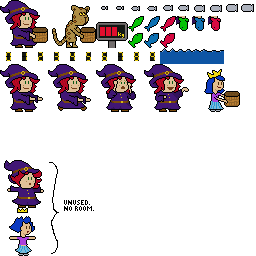
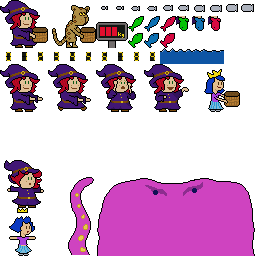
sea monster

diff --git a/src/game/battle/battle_seamonster.c b/src/game/battle/battle_seamonster.c
@@ -1,0 +1,169 @@
+/* battle_seamonster.c
+ * Not a real battle; just a cutscene showing Dot getting eaten by the sea monster.
+ */
+
+#include "game/bellacopia.h"
+
+#define GROUNDY 160 /* >16 off the framebuffer's bottom. */
+#define SKY_COLOR 0x5e9fc7ff
+#define GROUND_COLOR 0x126e29ff
+#define TENTACLE_COUNT 5
+#define MONSTER_SPEED 60.0 /* px/s. */
+#define MONSTER_Y_TOP 100 /* >=FBH-80 */
+#define MONSTER_Y_BOTTOM 250
+
+struct battle_seamonster {
+  struct battle hdr;
+  double wanimclock;
+  int wanimframe;
+  
+  int dot_eaten;
+  double monstery;
+  double monsterdy;
+  struct tentacle {
+    int x;
+    double animclock;
+    int animframe;
+  } tentaclev[TENTACLE_COUNT];
+};
+
+#define BATTLE ((struct battle_seamonster*)battle)
+
+/* Delete.
+ */
+ 
+static void _seamonster_del(struct battle *battle) {
+}
+
+/* New.
+ */
+ 
+static int _seamonster_init(struct battle *battle) {
+  BATTLE->monstery=MONSTER_Y_BOTTOM;
+  BATTLE->monsterdy=-1.0;
+  
+  struct tentacle *tentacle=BATTLE->tentaclev;
+  int i=0;
+  for (;i<TENTACLE_COUNT;i++,tentacle++) {
+    tentacle->x=(FBW>>1)-80+(i+1)*26;
+    tentacle->animclock=((rand()&0xffff)*0.500)/65535.0;
+    tentacle->animframe=rand()%2;
+  }
+  return 0;
+}
+
+/* Update.
+ */
+ 
+static void _seamonster_update(struct battle *battle,double elapsed) {
+  
+  // Animate water.
+  if ((BATTLE->wanimclock-=elapsed)<=0.0) {
+    BATTLE->wanimclock+=0.150;
+    if (++(BATTLE->wanimframe)>=6) BATTLE->wanimframe=0; // 4 frames, pingponging
+  }
+  
+  if (battle->outcome>-2) return;
+  
+  struct tentacle *tentacle=BATTLE->tentaclev;
+  int i=TENTACLE_COUNT;
+  for (;i-->0;tentacle++) {
+    if ((tentacle->animclock-=elapsed)<=0.0) {
+      tentacle->animclock+=0.500;
+      if (++(tentacle->animframe)>=2) tentacle->animframe=0;
+    }
+  }
+  
+  BATTLE->monstery+=BATTLE->monsterdy*MONSTER_SPEED*elapsed;
+  if (BATTLE->monstery<=MONSTER_Y_TOP) {
+    BATTLE->monstery=MONSTER_Y_TOP;
+    if (BATTLE->monsterdy<0.0) {
+      BATTLE->monsterdy=1.0;
+      BATTLE->dot_eaten=1;
+    }
+  } else if (BATTLE->monstery>MONSTER_Y_BOTTOM) {
+    battle->outcome=-1;
+  }
+  
+  //XXX AUX2 to end the battle and unset the controlling flag, for testing purposes.
+  if (g.input[0]&EGG_BTN_AUX2) {
+    fprintf(stderr,"*** AUX2: Ending seamonster cutscene and unsetting its flag. ***\n");
+    store_set_fld(NS_fld_caught_seamonster,0);
+    battle->outcome=1;
+  }
+}
+
+/* Render.
+ */
+ 
+static void _seamonster_render(struct battle *battle) {
+
+  // Sky, earth, and horizon. Then everything comes off RID_image_battle_fishing.
+  // Using the same colors as regular fishing battles. Maybe we want something more Labyrinth-appropriate?
+  graf_fill_rect(&g.graf,0,0,FBW,GROUNDY,SKY_COLOR);
+  graf_fill_rect(&g.graf,0,GROUNDY,FBW,FBH-GROUNDY,GROUND_COLOR);
+  graf_fill_rect(&g.graf,0,GROUNDY,FBW,1,0x000000ff);
+  graf_set_image(&g.graf,RID_image_battle_fishing);
+  
+  // Dot, always using the lose frame.
+  if (!BATTLE->dot_eaten) {
+    int dotdstx=120;
+    int dotdsty=GROUNDY-47;
+    int dotsrcx=96;
+    int dotsrcy=64;
+    graf_decal_xform(&g.graf,dotdstx,dotdsty,dotsrcx,dotsrcy,48,48,0);
+  }
+  
+  // Tentacles.
+  int smdsty=(int)BATTLE->monstery;
+  int tentsrcx=64;
+  int tentsrcy=176;
+  int tentw=32;
+  int tenth=80;
+  int tenty=smdsty-60;
+  struct tentacle *tentacle=BATTLE->tentaclev;
+  int i=TENTACLE_COUNT;
+  for (;i-->0;tentacle++) {
+    uint8_t xform=0;
+    if (tentacle->animframe==1) xform=EGG_XFORM_XREV;
+    graf_decal_xform(&g.graf,tentacle->x-16,tenty,tentsrcx,tentsrcy,tentw,tenth,xform);
+  }
+  
+  // Sea Monster.
+  int smsrcx=96;
+  int smsrcy=176;
+  int smw=160;
+  int smh=80;
+  graf_decal(&g.graf,(FBW>>1)-(smw>>1),smdsty,smsrcx,smsrcy,smw,smh);
+  
+  // Animated row of water at the bottom.
+  uint8_t watertileid=0x3a;
+  switch (BATTLE->wanimframe) {
+    case 1: watertileid+=1; break;
+    case 2: watertileid+=2; break;
+    case 3: watertileid+=3; break;
+    case 4: watertileid+=2; break;
+    case 5: watertileid+=1; break;
+  }
+  int waterx=NS_sys_tilesize>>1;
+  int watery=FBH-(NS_sys_tilesize>>1);
+  for (;waterx<FBW;waterx+=NS_sys_tilesize) graf_tile(&g.graf,waterx,watery,watertileid,0);
+}
+
+/* Type definition.
+ */
+ 
+const struct battle_type battle_type_seamonster={
+  .name="seamonster",
+  .objlen=sizeof(struct battle_seamonster),
+  .strix_name=20,
+  .no_article=0,
+  .no_contest=0,
+  .support_pvp=0,
+  .support_cvc=0,
+  .update_during_report=1,
+  .del=_seamonster_del,
+  .init=_seamonster_init,
+  .update=_seamonster_update,
+  .render=_seamonster_render,
+};

diff --git a/src/game/modal/modal_battle.c b/src/game/modal/modal_battle.c
@@ -116,8 +116,31 @@ static int battle_generate_prompt(struct modal *modal) {
 static int battle_generate_report_text(char *dst,int dsta,struct modal *modal) {
   int dstc=0;
   
+  // One-line summary if a name was provided. When it's a tie, they must have supplied both, and we use neither.
+  if (MODAL->outcome>0) {
+    if (MODAL->left_name<0) {
+      dstc+=text_format_res(dst+dstc,dsta-dstc,RID_strings_battle,-MODAL->left_name,0,0);
+    } else if (MODAL->left_name>0) {
+      struct text_insertion ins={.mode='r',.r={.rid=RID_strings_battle,.strix=MODAL->left_name}};
+      dstc+=text_format_res(dst+dstc,dsta-dstc,RID_strings_battle,7,&ins,1);
+    }
+  } else if (MODAL->outcome<0) {
+    if (MODAL->right_name<0) {
+      dstc+=text_format_res(dst+dstc,dsta-dstc,RID_strings_battle,-MODAL->right_name,0,0);
+    } else if (MODAL->right_name>0) {
+      struct text_insertion ins={.mode='r',.r={.rid=RID_strings_battle,.strix=MODAL->right_name}};
+      dstc+=text_format_res(dst+dstc,dsta-dstc,RID_strings_battle,7,&ins,1);
+    }
+  } else if (MODAL->left_name&&MODAL->right_name) {
+    dstc+=text_format_res(dst+dstc,dsta-dstc,RID_strings_battle,8,0,0);
+  }
+  if (dstc) {
+    if (dstc<dsta) dst[dstc++]=0x0a;
+    if (dstc<dsta) dst[dstc++]=0x0a;
+  }
+  
   // If both names were provided start with the one-line summary, then a blank line.
-  if (MODAL->left_name&&MODAL->right_name) {
+  if (0&&MODAL->left_name&&MODAL->right_name) {
     struct text_insertion ins={.mode='r',.r={.rid=RID_strings_battle,.strix=(MODAL->outcome<0)?MODAL->right_name:MODAL->left_name}};
     dstc+=text_format_res(dst+dstc,dsta-dstc,RID_strings_battle,MODAL->outcome?7:8,&ins,1);
     if (dstc<dsta) dst[dstc++]=0x0a;
@@ -371,6 +394,9 @@ static void battle_update_play(struct modal *modal,double elapsed) {
  */
  
 static void battle_update_report(struct modal *modal,double elapsed) {
+  if (MODAL->type->update_during_report&&MODAL->type->update) {
+    MODAL->type->update(MODAL->battle,elapsed);
+  }
   if (MODAL->timeout>0.0) {
     MODAL->timeout-=elapsed;
   } else if ((g.input[0]&EGG_BTN_SOUTH)&&!(g.pvinput[0]&EGG_BTN_SOUTH)) {

diff --git a/src/game/hero/hero_item.c b/src/game/hero/hero_item.c
@@ -246,7 +246,9 @@ static void fishpole_end(struct sprite *sprite) {
 
 static void fishpole_cb_battle(struct modal *modal,int outcome,void *userdata) {
   struct sprite *sprite=userdata;
-  if (outcome>0) {
+  if (SPRITE->fish==NS_itemid_seamonster) {
+    game_warp(RID_map_seamonster,NS_transition_fadeblack);
+  } else if (outcome>0) {
     game_get_item(SPRITE->fish,1);
     modal_battle_add_consequence(modal,SPRITE->fish,1);
   }
@@ -277,7 +279,7 @@ static void fishpole_update(struct sprite *sprite,double elapsed) {
       case NS_itemid_greenfish: battle=NS_battle_greenfish; break;
       case NS_itemid_bluefish: battle=NS_battle_bluefish; break;
       case NS_itemid_redfish: battle=NS_battle_redfish; break;
-      //TODO Eventually we want the seamonster encounter here too. Not sure if that will be a battle or what.
+      case NS_itemid_seamonster: battle=NS_battle_seamonster; break;
       default: {
           // If it's a thing that can be got, get it.
           int quantity=1;
@@ -304,10 +306,12 @@ static void fishpole_update(struct sprite *sprite,double elapsed) {
           .lface=NS_face_dot,
           .rface=NS_face_monster,
         },
+        .right_name=-198,
         .cb=fishpole_cb_battle,
         .userdata=sprite,
         .skip_prompt=1,
       };
+      if (SPRITE->fish==NS_itemid_seamonster) args.right_name=-199;
       struct modal *modal=modal_spawn(&modal_type_battle,&args,sizeof(args));
       if (!modal) return;
       SPRITE->itemid_in_progress=0;

diff --git a/src/game/shared_symbols.h b/src/game/shared_symbols.h
@@ -83,6 +83,7 @@
 #define NS_plane_caves1 3 /* mountains, where the goblins live. Expect multiple levels. */
 #define NS_plane_labyrinth1 4 /* jungle */
 #define NS_plane_temple_ground 5
+#define NS_plane_seamonster 6
 
 #define NS_busstop_cheapside 1
 #define NS_busstop_fractia 2
@@ -174,6 +175,7 @@
 #define NS_itemid_crystal 37
 #define NS_itemid_glove 38
 #define NS_itemid_marionette 39
+#define NS_itemid_seamonster 40
 #define FOR_EACH_itemid \
   _(stick) \
   _(broom) \
@@ -213,7 +215,8 @@
   _(phonograph) \
   _(crystal) \
   _(glove) \
-  _(marionette)
+  _(marionette) \
+  _(seamonster)
 
 /* NPC activities are hard-coded. Select one from this list.
  */
@@ -361,6 +364,7 @@
 #define NS_battle_chess 54
 #define NS_battle_broomrace 55
 #define NS_battle_armwrestling 56
+#define NS_battle_seamonster 57
 #define FOR_EACH_battle \
   _(fishing) \
   _(chopping) \
@@ -417,7 +421,8 @@
   _(counting) \
   _(chess) \
   _(broomrace) \
-  _(armwrestling)
+  _(armwrestling) \
+  _(seamonster)
 
 /* "fld" are single bits.
  */
@@ -514,6 +519,7 @@
 #define NS_fld_hc5 90 /* TODO */
 #define NS_fld_jig_desert_fish 91 /* One jigpiece in the desert pond where you have to fish for it. */
 #define NS_fld_jigpiece_eyeball_lake 92
+#define NS_fld_caught_seamonster 93
 
 /* "fld16" are 16 unsigned bits each.
  */

diff --git a/src/game/modal/modal.h b/src/game/modal/modal.h
@@ -105,7 +105,7 @@ struct modal_args_battle {
   void (*cb)(struct modal *modal,int outcome,void *userdata); // -1,0,1 = right wins,tie,left wins. Report consequences back to the modal during this callback.
   void (*cb_final)(struct modal *modal,int outcome,void *userdata); // Same idea, but called as we dismiss, after the report. Fine to use both.
   void *userdata;
-  int left_name,right_name; // NS_strings_battle. Highly recommended for NS_face_monster, otherwise we can assume "Dot" or "Princess".
+  int left_name,right_name; // NS_strings_battle. Highly recommended for NS_face_monster, otherwise we can assume "Dot" or "Princess". <0=strix of custom message.
   int skip_prompt; // We normally do a generic "Battle draws near!" hopefully with some helpful instructions.
   int skip_outtro; // We normally wait for a keystroke after completion, while reporting the winner and consequences.
   int no_store; // Set nonzero to forbid store access. Otherwise we might dirty a fresh store and wipe the saved game.

diff --git a/src/game/hero/hero_render.c b/src/game/hero/hero_render.c
@@ -153,7 +153,24 @@ static void hero_render_fishpole(struct sprite *sprite,int x,int y) {
   graf_tile(&g.graf,x+SPRITE->facedx*NS_sys_tilesize,y+SPRITE->facedy*NS_sys_tilesize,poletileid,xform);
   hero_render_errata(sprite,x,y);
   
-  if (SPRITE->fish) {
+  if (SPRITE->fish==NS_itemid_seamonster) {
+    graf_set_image(&g.graf,RID_image_temple_sprites);
+    int frame=(int)(((FISH_FLY_TIME-SPRITE->fishclock)*7.0)/FISH_FLY_TIME);
+    if (frame<0) frame=0;
+    else if (frame>=7) frame=6;
+    uint8_t fishtile=0x34;
+    switch (frame) {
+      case 0: break;
+      case 1: fishtile+=1; break;
+      case 2: fishtile+=2; break;
+      case 3: fishtile+=3; break;
+      case 4: fishtile+=4; break;
+      case 5: fishtile+=3; break;
+      case 6: fishtile+=4; break;
+    }
+    graf_tile(&g.graf,fishx0,fishy0,fishtile,0);
+  
+  } else if (SPRITE->fish) {
     const struct item_detail *detail=item_detail_for_itemid(SPRITE->fish);
     if (detail&&detail->tileid) {
       const double range=-30.0; // px

diff --git a/src/game/battle/battle.h b/src/game/battle/battle.h
@@ -34,6 +34,7 @@ struct battle_type {
   int no_timeout; // Suppress default timeout. You must guarantee to terminate when unattended.
   int support_pvp; // Player-vs-player supported. Only ones that shouldn't are the very asymmetric ones where a second player would have nothing to do.
   int support_cvc; // CPU-vs-CPU supported. All battles should do this, I'm not sure what kind of game couldn't be played automatically.
+  int update_during_report;
   
   void (*del)(struct battle *battle);
   int (*init)(struct battle *battle);

diff --git a/src/game/inventory.c b/src/game/inventory.c
@@ -356,6 +356,15 @@ static const struct item_detail item_detailv[]={
     .inventoriable=1,
     .fld16=0,
   },
+  [NS_itemid_seamonster]={ // Really just a signal for fishpole, not an item at all.
+    .tileid=0,
+    .hand_tileid=0,
+    .strix_name=0,
+    .strix_help=0,
+    .initial_limit=0,
+    .inventoriable=0,
+    .fld16=0,
+  },
 };
 
 /* Get item reporting.

diff --git a/src/game/modal/modal_arcade.c b/src/game/modal/modal_arcade.c
@@ -9,7 +9,7 @@
 #include "game/bellacopia.h"
 #include "game/battle/battle.h"
 
-#define PRESELECT_BATTLE NS_battle_boomerang
+#define PRESELECT_BATTLE NS_battle_seamonster
 
 #define ROWC 20 /* FBH / font height */
 #define KEY_REPEAT_INITIAL 0.250

diff --git a/README.md b/README.md
@@ -38,7 +38,7 @@ Requires [Egg](https://github.com/aksommerville/egg2) to build.
 - - 0x0000003f ...fixed
 - - ...Generated the first 0x00820000 (~8.5M) with no errors. Let's call it ok.
 - [x] Geographic and temporal variety in fish. See `game.c:game_choose_fish()`
-- [ ] Catch a sea monster in the Labyrinth.
+- [x] Catch a sea monster in the Labyrinth.
 - [ ] bluefish and redfish battles. Right now they are the same as greenfish, but I'd like extra gimmicks.
 - [ ] Some fanfare and cooldown at gameover. See `sprite_hero.c:hero_hurt()`
 - [ ] Handicap for monster and fishpole.
@@ -87,6 +87,7 @@ Requires [Egg](https://github.com/aksommerville/egg2) to build.
 - [ ] 5 more outerworld songs. See `completion.c:bm_song_for_outerworld()`
 - [ ] Properer graphics for Crystal Ball. Very rough today.
 - [ ] Content for Crystal Ball. `targets.c:game_get_advice()`. Should follow roughly the same pattern as the compass, choose the logical next step.
+- [ ] Parasites in the sea monster.
 
 - Beta test. Aim to have this underway before GDEX.
 - - [ ] Automated system in-app to gather a log.
@@ -161,7 +162,7 @@ Requires [Egg](https://github.com/aksommerville/egg2) to build.
 - [ ] Tape Measure.
 - [ ] Phonograph.
 - [ ] Crystal Ball.
-- [ ] Power Glove.
+- [x] Power Glove: Sea monster (Labyrinth).
 - [ ] Marionette.
 - Can add as many purse upgrades as we like. I guess no more than 9, so it stays within 3 digits?
 
